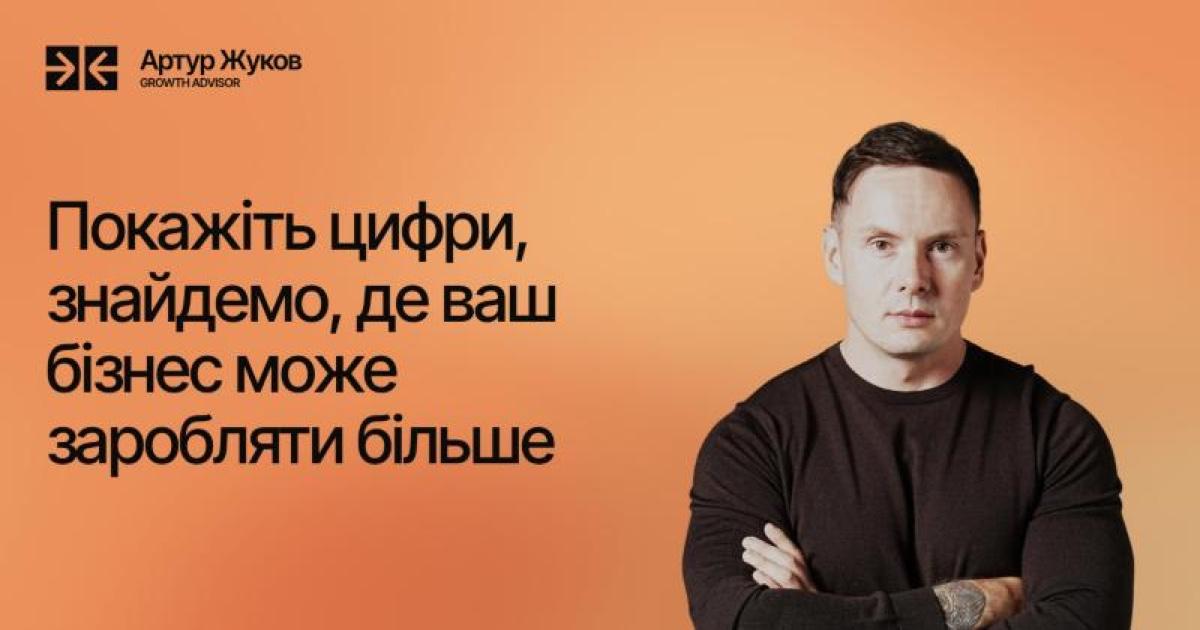
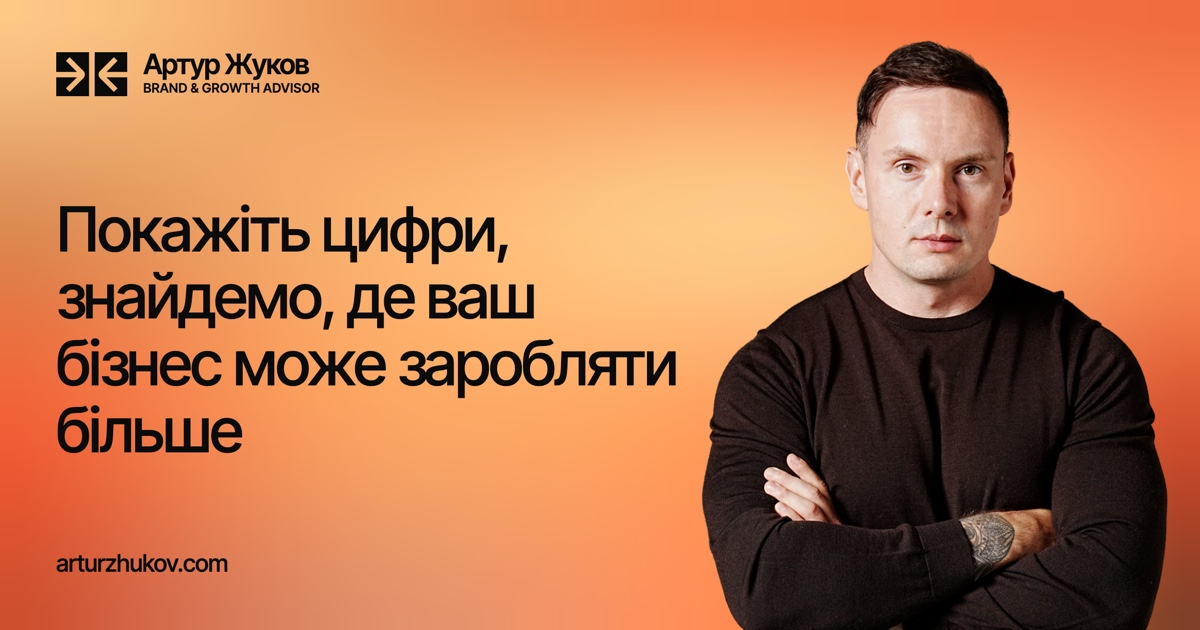
Privacy Policy, нова картинка для поширення, лише пілотна ціна
Заразом питання про сірі схеми у FAQ, поле «Telegram або телефон»,
м'якший поріг проти ботів і прозорий холст градієнта.

diff --git a/src/content/home.ts b/src/content/home.ts
@@ -118,6 +118,8 @@ export type Home = {
     ctaLabel: string;
     messengersLabel: string;
     portraitAlt: string;
+    /** Майже непомітне посилання внизу сайту */
+    privacyLabel: string;
   };
 };
 
@@ -242,7 +244,7 @@ export const home: Home = {
         {
           label: "Вартість",
           value: "$1 500, ≈ 14 днів",
-          note: "Ціна для перших трьох компаній в обмін на анонімний кейс і відгук, далі $4 000. Точний обсяг і терміни погоджуємо перед початком.",
+          note: "Пілотна ціна для перших трьох компаній в обмін на анонімний кейс і відгук. Точний обсяг і терміни погоджуємо перед початком.",
         },
       ],
       buttonLabel: "Замовити розбір бізнесу",
@@ -331,7 +333,7 @@ export const home: Home = {
           "Для власників, яким потрібно визначити, де знаходяться найсильніші можливості для зростання. Три пріоритети, оцінка економічного ефекту та план на 90 днів.",
         ],
         buttonLabel: "Замовити розбір бізнесу",
-        note: "Ціна для перших трьох компаній в обмін на анонімний кейс і відгук, далі $4 000.",
+        note: "Пілотна ціна для перших трьох компаній в обмін на анонімний кейс і відгук.",
         featured: true,
       },
       {
@@ -388,6 +390,11 @@ export const home: Home = {
           "Ні. Реальний результат залежить від вихідної ситуації та якості впровадження. Моє завдання — знайти економічно обґрунтовані можливості та допомогти визначити правильні пріоритети.",
       },
       {
+        question: "З якими бізнесами ви не працюєте?",
+        answer:
+          "Не беруся за шахрайські й сірі схеми та проєкти, які шкодять людям. Якщо бізнес чесний, знайдемо, де йому рости.",
+      },
+      {
         question: "Чи обов'язково продовжувати співпрацю?",
         answer: "Ні. План залишається у вас. Ви можете реалізувати його власною командою.",
       },
@@ -406,5 +413,6 @@ export const home: Home = {
     ctaLabel: "Знайти, де заробити більше",
     messengersLabel: "Або напишіть мені в месенджер",
     portraitAlt: "Артур Жуков",
+    privacyLabel: "Privacy Policy",
   },
 };

diff --git a/src/content/privacy.ts b/src/content/privacy.ts
@@ -1,0 +1,46 @@
+// Політика конфіденційності. Англійською, сторінка /privacy.
+
+export type Privacy = {
+  title: string;
+  updated: string;
+  sections: { heading: string; text: string }[];
+};
+
+export const privacy: Privacy = {
+  title: "Privacy Policy",
+  updated: "Last updated: 6 November 2026",
+  sections: [
+    {
+      heading: "Who we are",
+      text: "This website is operated by Arthur Zhukov (“we”). We are the data controller for the personal data described in this policy. You can reach us on Telegram at @zhukov_9999.",
+    },
+    {
+      heading: "What we collect",
+      text: "We collect the data you choose to give us: your name, your Telegram username or phone number, and any details you add about your business. If you book a call, the booking service collects your name, email address, the time you choose and any optional details you add. Our hosting provider also processes technical data, such as your IP address and browser type, to deliver the website and keep it secure.",
+    },
+    {
+      heading: "Why we use it",
+      text: "We use your data to reply to your request, arrange and hold a call, prepare for it and discuss possible work with you. Our legal basis is the steps you ask us to take before entering into a contract, and our legitimate interest in running and protecting this website. We do not sell your data and do not use it for automated decision-making.",
+    },
+    {
+      heading: "Who we share it with",
+      text: "We share data only with service providers that help us run this website and our communication: Vercel (hosting), Telegram (delivery of requests), TidyCal (call booking) and Google (calendar and video calls). These providers may process data outside your country, including in the United States. Where required, such transfers rely on appropriate safeguards. We may also disclose data if the law requires it.",
+    },
+    {
+      heading: "How long we keep it",
+      text: "We keep your data for as long as needed to handle your request and for up to 24 months after our last contact, unless the law requires us to keep it longer or we start working together.",
+    },
+    {
+      heading: "Your rights",
+      text: "Depending on where you live, you may have the right to access, correct or delete your data, restrict or object to its use, receive a copy of it, and withdraw consent. To use these rights, contact us on Telegram. You may also complain to your local data protection authority.",
+    },
+    {
+      heading: "Cookies",
+      text: "This website does not use advertising or analytics cookies. If that changes, we will update this policy. The booking service, when you open it, may use its own cookies.",
+    },
+    {
+      heading: "Changes",
+      text: "We may update this policy from time to time. The date at the top shows the latest version.",
+    },
+  ],
+};

diff --git a/src/content/form.ts b/src/content/form.ts
@@ -8,6 +8,8 @@ export type LeadForm = {
   contact: { label: string; placeholder: string };
   submitLabel: string;
   sendingLabel: string;
+  /** Дрібний підпис під кнопками */
+  privacy: { text: string; linkLabel: string };
   /** Кнопка календаря: для тих, хто хоче одразу обрати час */
   calendarLabel: string;
   /** Що людина бачить після відправки заявки */
@@ -37,9 +39,10 @@ export const form: LeadForm = {
   text: "Напишу вам, домовимося про час і поговоримо 20–30 хвилин. Безкоштовно і без зобов'язань.",
   closeLabel: "Закрити вікно заявки",
   name: { label: "Ім'я", placeholder: "Як до вас звертатися?" },
-  contact: { label: "Telegram", placeholder: "@нік або номер телефону" },
+  contact: { label: "Telegram або телефон", placeholder: "@нік або +380…" },
   submitLabel: "Надіслати заявку",
   sendingLabel: "Надсилаю…",
+  privacy: { text: "Надсилаючи заявку, ви приймаєте", linkLabel: "Privacy Policy" },
   calendarLabel: "Або одразу оберіть час у календарі",
   sent: {
     title: "Дякую, заявку отримав",

diff --git a/src/app/privacy/page.tsx b/src/app/privacy/page.tsx
@@ -1,0 +1,34 @@
+import type { Metadata } from "next";
+import { Logo } from "@/components/ui/Logo";
+import { getPrivacy, getSite } from "@/lib/content";
+
+export const metadata: Metadata = {
+  title: "Privacy Policy",
+  alternates: { canonical: "/privacy" },
+  robots: { index: false, follow: false },
+};
+
+/** Політика конфіденційності. */
+export default async function PrivacyPage() {
+  const [privacy, site] = await Promise.all([getPrivacy(), getSite()]);
+
+  return (
+    <main lang="en" className="min-h-svh bg-page text-ink">
+      <div className="mx-auto flex max-w-[48rem] flex-col gap-10 px-gutter py-gutter">
+        <div className="self-start">
+          <Logo name={site.name} role={site.role} className="text-h5" />
+        </div>
+        <div className="flex flex-col gap-2">
+          <h1 className="text-h3 font-medium">{privacy.title}</h1>
+          <p className="text-sm text-muted">{privacy.updated}</p>
+        </div>
+        {privacy.sections.map((section) => (
+          <section key={section.heading} className="flex flex-col gap-2">
+            <h2 className="text-base font-semibold">{section.heading}</h2>
+            <p className="text-base">{section.text}</p>
+          </section>
+        ))}
+      </div>
+    </main>
+  );
+}

diff --git a/src/components/sections/FinalCta.tsx b/src/components/sections/FinalCta.tsx
@@ -1,5 +1,6 @@
 import type { CSSProperties } from "react";
 import Image from "next/image";
+import Link from "next/link";
 import { GradientBackdrop } from "@/components/gradient/GradientBackdrop";
 import { InView } from "@/components/motion/InView";
 import { RevealWords } from "@/components/motion/RevealWords";
@@ -66,8 +67,11 @@ export async function FinalCta() {
               )}
             </div>
           </div>
-          <div className="mt-10 animate-rise self-start lg:mt-16" style={delay(550)}>
+          <div className="mt-10 flex animate-rise items-end justify-between gap-6 lg:mt-16" style={delay(550)}>
             <Logo name={site.name} role={site.role} className="text-h5" />
+            <Link href="/privacy" className="text-sm text-ink/50 transition-colors duration-300 hover:text-ink">
+              {final.privacyLabel}
+            </Link>
           </div>
         </InView>
       </div>

diff --git a/src/components/form/LeadDialog.tsx b/src/components/form/LeadDialog.tsx
@@ -1,5 +1,6 @@
 "use client";
 
+import Link from "next/link";
 import { useActionState, useEffect, useId, useRef, useState, type ReactNode } from "react";
 import { submitLead, submitLeadDetails } from "@/app/actions/lead";
 import type { LeadForm } from "@/content/form";
@@ -200,6 +201,12 @@ export function LeadDialog({
                 {pending ? submitPending : submit}
               </form>
               {calendarButton}
+              <p className="pt-1 pb-2 text-center text-sm text-page/50">
+                {content.privacy.text}{" "}
+                <Link href="/privacy" target="_blank" className="underline underline-offset-2">
+                  {content.privacy.linkLabel}
+                </Link>
+              </p>
             </>
           )}
 

diff --git a/src/lib/content.ts b/src/lib/content.ts
@@ -9,6 +9,7 @@
 
 import { form, type LeadForm } from "@/content/form";
 import { home, type Home } from "@/content/home";
+import { privacy, type Privacy } from "@/content/privacy";
 import { site, type Site } from "@/content/site";
 import { typesetDeep } from "./typography";
 
@@ -23,6 +24,10 @@ export async function getSite(): Promise<Site> {
 
 export async function getHome(): Promise<Home> {
   return preparedHome;
+}
+
+export async function getPrivacy(): Promise<Privacy> {
+  return privacy;
 }
 
 export async function getForm(): Promise<LeadForm> {

diff --git a/src/components/gradient/LiveGradient.tsx b/src/components/gradient/LiveGradient.tsx
@@ -158,8 +158,10 @@ export function LiveGradient({ className }: { className?: string }) {
 }
 
 function start(canvas: HTMLCanvasElement): () => void {
+  // Прозорий холст: поки кадр не намальовано, крізь нього видно картинку фону,
+  // а не чорний прямокутник. Сам градієнт малюється непрозорим
   const gl = canvas.getContext("webgl2", {
-    alpha: false,
+    alpha: true,
     antialias: false,
     powerPreference: "low-power",
   });

diff --git a/src/app/actions/lead.ts b/src/app/actions/lead.ts
@@ -12,7 +12,7 @@ import {
 import { sendToTelegram } from "@/lib/telegram";
 
 // Людина не встигне заповнити анкету швидше, а бот заповнює миттєво
-const MIN_FILL_TIME = 1500;
+const MIN_FILL_TIME = 800;
 
 /** Приймає заявку: перевіряє й надсилає в Telegram. */
 export async function submitLead(_previous: LeadState, formData: FormData): Promise<LeadState> {

diff --git a/CLAUDE.md b/CLAUDE.md
@@ -34,6 +34,7 @@ npm run check      # lint + типи + збірка, запускати пере
 | Перевірка заявки й текст повідомлення | `src/lib/lead.ts` |
 | Відправка заявки в Telegram | `src/app/actions/lead.ts`, `src/lib/telegram.ts` |
 | Посилання на запис | `contacts.booking` у `src/content/site.ts`, сама зустріч у кабінеті TidyCal |
+| Політика конфіденційності | `src/content/privacy.ts`, сторінка `src/app/privacy/page.tsx` |
 | Заголовок і опис для пошуковиків, картинка для поширення, сторінка 404 | `src/content/site.ts`, `public/images/share.jpg`, див. `docs/CONTENT.md` |
 | Метадані, карта сайту, правила для роботів, дані schema.org | `src/app/layout.tsx`, `src/app/sitemap.ts`, `src/app/robots.ts`, `src/components/seo/StructuredData.tsx` |
 | Типографіка (короткі слова не висять у кінці рядка) | `src/lib/typography.ts`, працює автоматично |
